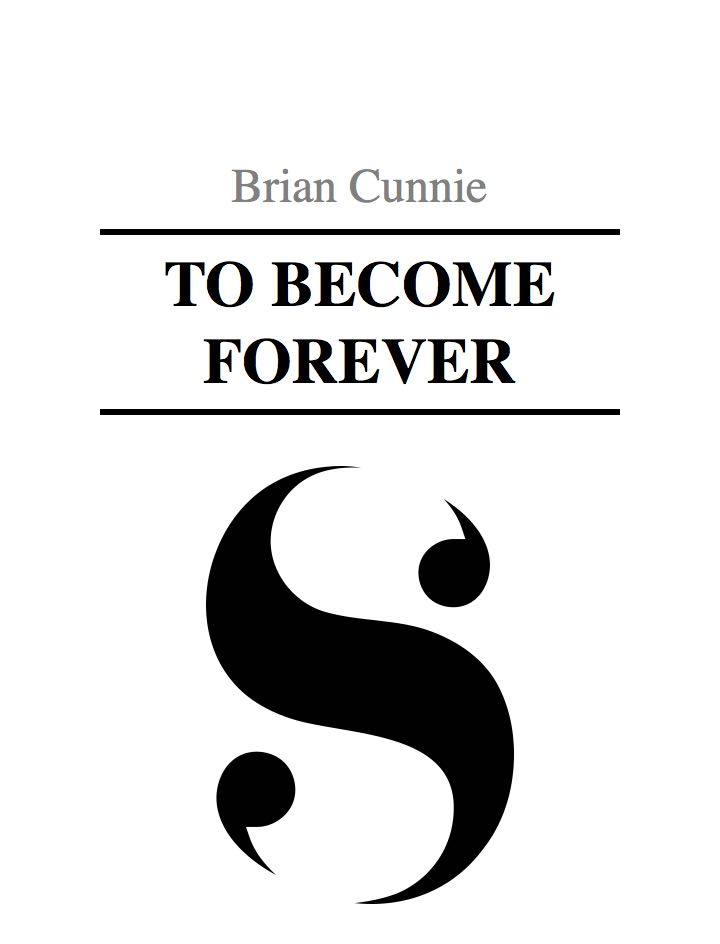
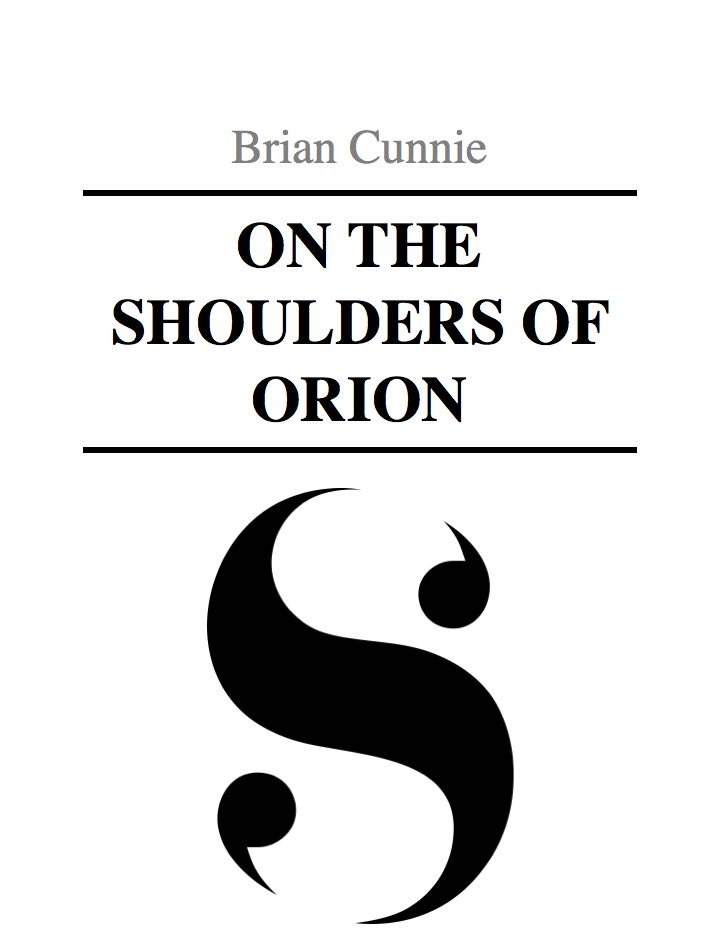
Ignore binder backup

diff --git a/To Become Forever.scriv/QuickLook/Preview.html b/To Become Forever.scriv/QuickLook/Preview.html
@@ -1,7 +1,7 @@
 <html>
 
 <head>
-<title>To Become Forever</title>
+<title>On the Shoulders of Orion</title>
 <meta http-equiv="Content-Type" content="text/html; charset=utf-8">
 
 <!-- NOTE: margin property = top-right-bottom-left -->
@@ -111,7 +111,7 @@
 <p class="itemText">“Colonel Taggart,” s...</p>
 </li>
 <li>
-<p class="topLevelItemTitle">Remniscing</p>
+<p class="topLevelItemTitle">Reminiscing</p>
 <p class="itemText">She sat in coach. She travelled mostly in coach, sometimes in business class, but mostly in coach. She wanted to set the example for her company. Frugal. She had seen some employees at other companies go overboard, spending money recklessly, “sucking on the corporate teat,” was how her mentor had described it.</p>
 <p class="itemText">She didn’t begrudge her people flying business, but never first class, not even on the long Asia flights. If they used their points to upgrade, well that was their prerogative, but the com...</p>
 </li>
